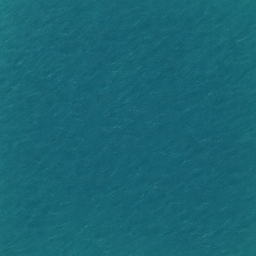
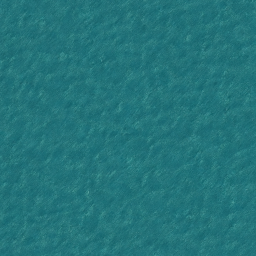
Voda bez mrizky: rozhoduje pomer prechodu ke kontrastu
Orez okraje spravil mrizku vsude krome vody. Duvod je jedno cislo: pomer
siroke svetelne zmeny pres dlazdici k vlastnimu kontrastu obrazku. Trava 0,3,
mokrad 1,3, pisek 2,5 -- voda 2,7, a to i pri prechodu jen 10, protoze nema
zadnou vlastni kresbu, ktera by ho schovala.

"Only a very faint fine texture" v puvodnim promptu udelalo presne to: hladkou
plochu, na ktere je videt kazdy prechod, a otaceni po dlazdicich z nej udela
schod na kazdem spoji.

Novy prompt zakazuje prechod jmenovite jako u travy a zaroven zada jemne
nesmerove mramorovani misto "skoro nic". Vlny, hrebeny a jiskreni zustavaji
zakazane. Pomer klesl z 2,7 na 0,4.

diff --git a/docs/08-DLAZDICE.md b/docs/08-DLAZDICE.md
@@ -223,9 +223,30 @@ Písek jako v pískovišti, odkud je vzor.
 
 | | prompt |
 |---|---|
-| **a** | Open water seen from far above: one flat even blue-green surface, the same everywhere. No waves, no white crests, no sun glitter, no foam, no shore, no bottom — only a very faint fine texture. |
-| **b** | Deep open water seen from far above: one flat even dark blue surface, the same everywhere. No waves, no white crests, no sun glitter, no foam, no shore, no bottom — only a very faint fine texture. |
-| **c** | Open water seen from far above: one flat even lighter blue surface, the same everywhere. No waves, no white crests, no sun glitter, no foam, no shore, no bottom — only a very faint fine texture. |
+| **a** | Open water seen from far above: one flat even blue-green surface, the same everywhere. No waves, no white crests, no sun glitter, no foam, no shore, no bottom. The light is perfectly flat and even across the whole image: NO shadow, NO vignette, NO darker corner, NO darker band, NO gradient from one side to the other. Every part of the image is exactly as bright as every other part. The surface carries a fine even mottling with no direction, like still water seen from a height. |
+| **b** | Deep open water seen from far above: one flat even dark blue surface, the same everywhere. No waves, no white crests, no sun glitter, no foam, no shore, no bottom. The light is perfectly flat and even across the whole image: NO shadow, NO vignette, NO darker corner, NO darker band, NO gradient from one side to the other. Every part of the image is exactly as bright as every other part. The surface carries a fine even mottling with no direction, like still water seen from a height. |
+| **c** | Open water seen from far above: one flat even lighter blue surface, the same everywhere. No waves, no white crests, no sun glitter, no foam, no shore, no bottom. The light is perfectly flat and even across the whole image: NO shadow, NO vignette, NO darker corner, NO darker band, NO gradient from one side to the other. Every part of the image is exactly as bright as every other part. The surface carries a fine even mottling with no direction, like still water seen from a height. |
+
+**Voda je nejcitlivější povrch na mapě a je za tím jedno číslo.** Ořez okraje
+spravil mřížku všude kromě ní — autor to popsal přesně: „na trávu a hlínu to
+zabralo skvěle, ale na vodu vůbec". Rozhoduje poměr **širokého přechodu ke
+kontrastu uvnitř dlaždice**:
+
+| povrch | široký přechod | kontrast | poměr |
+|---|---|---|---|
+| tráva | 6 | 20,3 | 0,3 |
+| mokřad | 33 | 25,1 | 1,3 |
+| písek | 29 | 11,4 | 2,5 |
+| voda | 10 | 3,7 | **2,7** |
+
+Vodě stačí přechod 10, aby byla nejhorší z celé sady: nemá **žádnou vlastní
+kresbu**, která by ho schovala. „Only a very faint fine texture" v prvním
+promptu udělalo přesně to — hladkou plochu, na které je pak vidět každý
+přechod, a otáčení po dlaždicích z něj udělá schod na každém spoji.
+
+Prompt proto dělá dvě věci naráz: zakazuje přechod jmenovitě, jako u trávy,
+a zároveň žádá **jemné nesměrové mramorování** místo „skoro nic". Vlny,
+hřebeny a jiskření zůstávají zakázané — ty tu už jednou udělaly manšestr.
 
 ## Objekty na terénu
 
